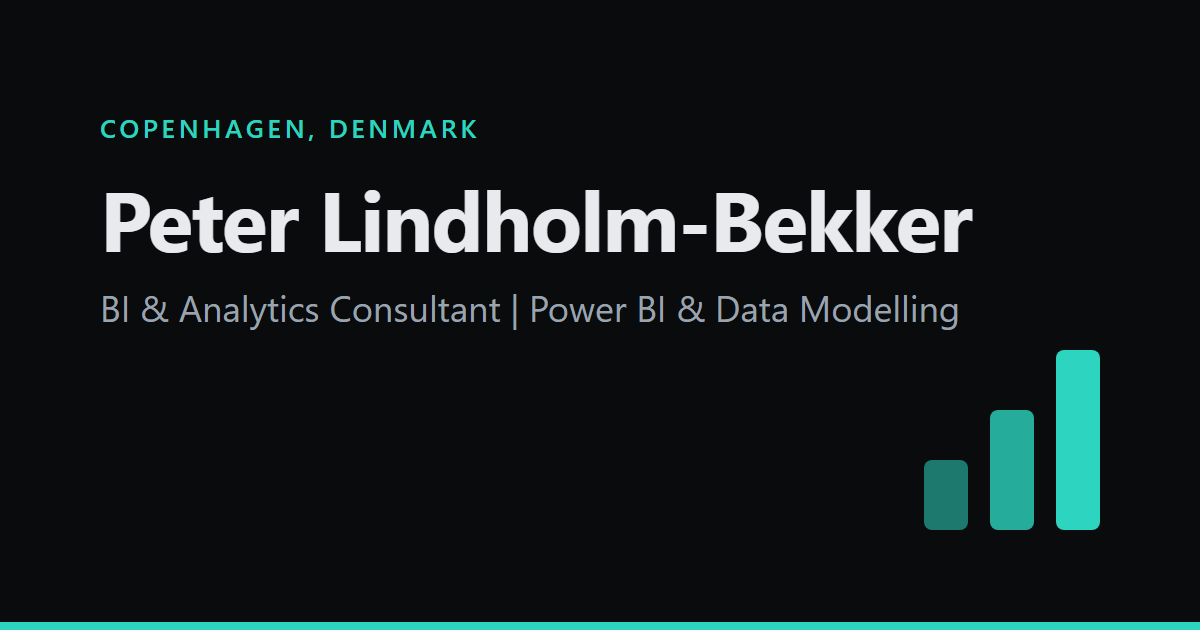
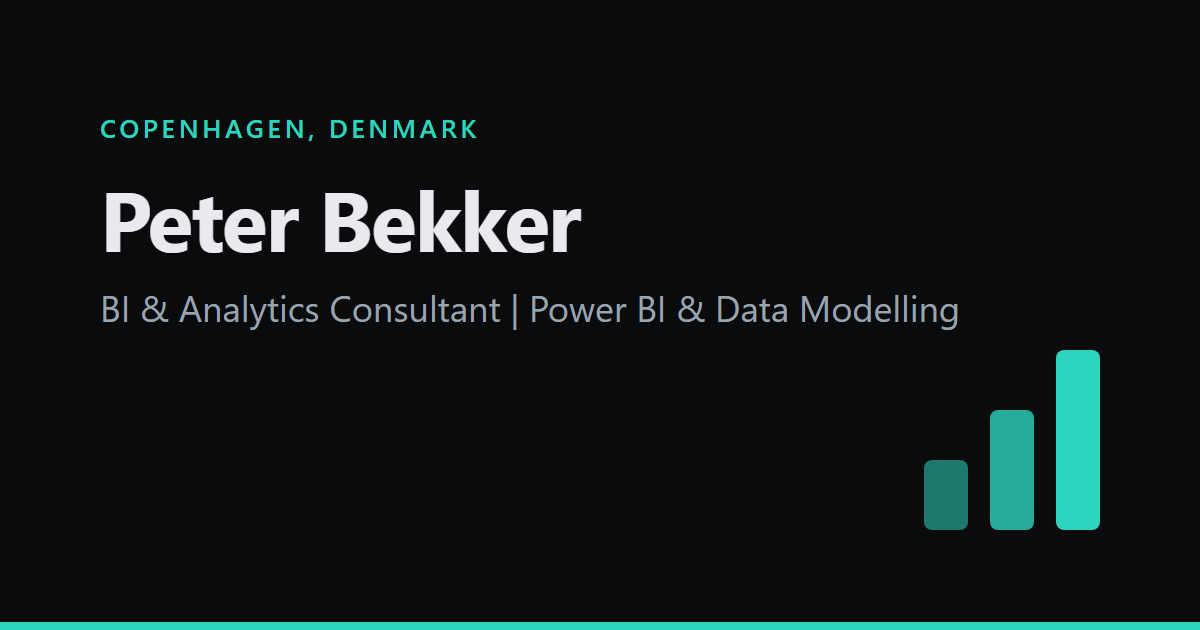
Use the name Peter Bekker, new photo and an open-to-work badge

Changed region(s): [[0.2775, 0.3016, 0.8325, 0.4222]]

diff --git a/index.html b/index.html
@@ -3,38 +3,38 @@
 <head>
   <meta charset="utf-8">
   <meta name="viewport" content="width=device-width, initial-scale=1">
-  <title>Peter Lindholm-Bekker | BI &amp; Analytics Consultant</title>
-  <meta name="description" content="Peter Lindholm-Bekker – BI &amp; Analytics Consultant in Copenhagen, working with Power BI, semantic modelling, DAX and data storytelling.">
-  <meta name="author" content="Peter Lindholm-Bekker">
+  <title>Peter Bekker | BI &amp; Analytics Consultant</title>
+  <meta name="description" content="Peter Bekker – BI &amp; Analytics Consultant in Copenhagen, working with Power BI, semantic modelling, DAX and data storytelling.">
+  <meta name="author" content="Peter Bekker">
   <meta name="theme-color" content="#0a0b0d">
   <link rel="canonical" href="https://forza20.github.io/">
 
   <!-- Open Graph -->
   <meta property="og:type" content="website">
-  <meta property="og:site_name" content="Peter Lindholm-Bekker">
+  <meta property="og:site_name" content="Peter Bekker">
   <meta property="og:locale" content="en_GB">
   <meta property="og:url" content="https://forza20.github.io/">
-  <meta property="og:title" content="Peter Lindholm-Bekker | BI &amp; Analytics Consultant">
+  <meta property="og:title" content="Peter Bekker | BI &amp; Analytics Consultant">
   <meta property="og:description" content="Power BI, semantic modelling, DAX and data storytelling – based in Copenhagen.">
   <meta property="og:image" content="https://forza20.github.io/assets/og-image.png">
   <meta property="og:image:type" content="image/png">
   <meta property="og:image:width" content="1200">
   <meta property="og:image:height" content="630">
-  <meta property="og:image:alt" content="Peter Lindholm-Bekker – BI &amp; Analytics Consultant, Power BI &amp; Data Modelling">
+  <meta property="og:image:alt" content="Peter Bekker – BI &amp; Analytics Consultant, Power BI &amp; Data Modelling">
 
   <!-- Twitter / X card -->
   <meta name="twitter:card" content="summary_large_image">
-  <meta name="twitter:title" content="Peter Lindholm-Bekker | BI &amp; Analytics Consultant">
+  <meta name="twitter:title" content="Peter Bekker | BI &amp; Analytics Consultant">
   <meta name="twitter:description" content="Power BI, semantic modelling, DAX and data storytelling – based in Copenhagen.">
   <meta name="twitter:image" content="https://forza20.github.io/assets/og-image.png">
-  <meta name="twitter:image:alt" content="Peter Lindholm-Bekker – BI &amp; Analytics Consultant, Power BI &amp; Data Modelling">
+  <meta name="twitter:image:alt" content="Peter Bekker – BI &amp; Analytics Consultant, Power BI &amp; Data Modelling">
 
   <!-- Tells search engines who this page is about -->
   <script type="application/ld+json">
   {
     "@context": "https://schema.org",
     "@type": "Person",
-    "name": "Peter Lindholm-Bekker",
+    "name": "Peter Bekker",
     "jobTitle": "BI & Analytics Consultant",
     "url": "https://forza20.github.io/",
     "image": "https://forza20.github.io/assets/peter.jpg",
@@ -58,7 +58,7 @@
 
   <header class="site-header">
     <nav class="nav container" aria-label="Main">
-      <a class="nav__brand" href="#top" aria-label="Back to top">PLB</a>
+      <a class="nav__brand" href="#top" aria-label="Back to top">PB</a>
       <ul class="nav__links">
         <li><a href="#about">About</a></li>
         <li><a href="#skills">Skills</a></li>
@@ -73,10 +73,14 @@
     <!-- HERO -->
     <section class="hero container" id="top" aria-labelledby="hero-title">
       <div class="hero__grid">
-      <img class="hero__photo reveal" src="assets/peter.jpg" width="220" height="275" alt="Portrait of Peter Lindholm-Bekker">
+      <img class="hero__photo reveal" src="assets/peter.jpg" width="244" height="305" alt="Portrait of Peter Bekker">
       <div class="hero__text">
+      <a class="status-badge reveal" href="#contact">
+        <span class="status-badge__dot" aria-hidden="true"></span>
+        <span>Open to new roles and freelance projects</span>
+      </a>
       <p class="hero__eyebrow reveal">Copenhagen, Denmark</p>
-      <h1 class="hero__title reveal" id="hero-title">Peter Lindholm-Bekker</h1>
+      <h1 class="hero__title reveal" id="hero-title">Peter Bekker</h1>
       <p class="hero__role reveal">BI &amp; Analytics Consultant <span aria-hidden="true">|</span> Power BI &amp; Data Modelling</p>
       <p class="hero__tagline reveal">I turn business data into models people trust and reports people actually use.</p>
 
@@ -475,7 +479,7 @@
         <li><a href="https://github.com/Forza20" target="_blank" rel="noopener noreferrer">GitHub<span class="visually-hidden"> (opens in a new tab)</span></a></li>
         <li><a href="https://www.linkedin.com/in/peter-bekker-4a25744/" target="_blank" rel="noopener noreferrer">LinkedIn<span class="visually-hidden"> (opens in a new tab)</span></a></li>
       </ul>
-      <p class="footer__copy">&copy; <span id="year">2026</span> Peter Lindholm-Bekker</p>
+      <p class="footer__copy">&copy; <span id="year">2026</span> Peter Bekker</p>
     </div>
   </footer>
 

diff --git a/style.css b/style.css
@@ -123,7 +123,7 @@ a:hover { color: var(--accent-strong); }
   .nav__links { gap: 0; }
   .nav__links a { padding: 0.4rem 0.4rem; font-size: 0.85rem; }
 }
-/* Smallest phones: drop the "PLB" brand so all five links fit */
+/* Smallest phones: drop the "PB" brand so all five links fit */
 @media (max-width: 380px) {
   .nav__brand { display: none; }
   .nav { justify-content: center; }
@@ -199,6 +199,47 @@ a:hover { color: var(--accent-strong); }
   padding-top: clamp(4rem, 14vh, 8rem);
   padding-bottom: clamp(3rem, 10vh, 6rem);
 }
+/* "Open to new roles" badge above the name */
+.status-badge {
+  display: inline-flex;
+  align-items: center;
+  gap: 0.6rem;
+  margin-bottom: 1.5rem;
+  padding: 0.4rem 0.9rem 0.4rem 0.75rem;
+  font-size: 0.875rem;
+  font-weight: 500;
+  color: var(--text);
+  text-decoration: none;
+  background: rgb(45 212 191 / 0.08);
+  border: 1px solid rgb(45 212 191 / 0.35);
+  border-radius: 999px;
+  transition: border-color 0.15s ease, background-color 0.15s ease;
+}
+.status-badge:hover { color: var(--text); border-color: var(--accent); background: rgb(45 212 191 / 0.14); }
+.status-badge__dot {
+  position: relative;
+  width: 8px;
+  height: 8px;
+  flex-shrink: 0;
+  border-radius: 50%;
+  background: var(--accent);
+}
+.status-badge__dot::after {
+  content: "";
+  position: absolute;
+  inset: 0;
+  border-radius: 50%;
+  background: var(--accent);
+  animation: pulse 2s ease-out infinite;
+}
+@keyframes pulse {
+  from { transform: scale(1); opacity: 0.7; }
+  to   { transform: scale(2.6); opacity: 0; }
+}
+@media (prefers-reduced-motion: reduce) {
+  .status-badge__dot::after { display: none; }
+}
+
 .hero__eyebrow {
   color: var(--accent);
   font-size: 0.85rem;

diff --git a/404.html b/404.html
@@ -3,7 +3,7 @@
 <head>
   <meta charset="utf-8">
   <meta name="viewport" content="width=device-width, initial-scale=1">
-  <title>Page not found | Peter Lindholm-Bekker</title>
+  <title>Page not found | Peter Bekker</title>
   <meta name="robots" content="noindex">
   <meta name="theme-color" content="#0a0b0d">
   <!-- Absolute paths: this page is shown for any missing URL, at any depth -->

diff --git a/README.md b/README.md
@@ -1,4 +1,4 @@
-# Peter Lindholm-Bekker – portfolio
+# Peter Bekker – portfolio
 
 Personal website built with plain HTML, CSS and vanilla JavaScript. No frameworks, no build step.
 
